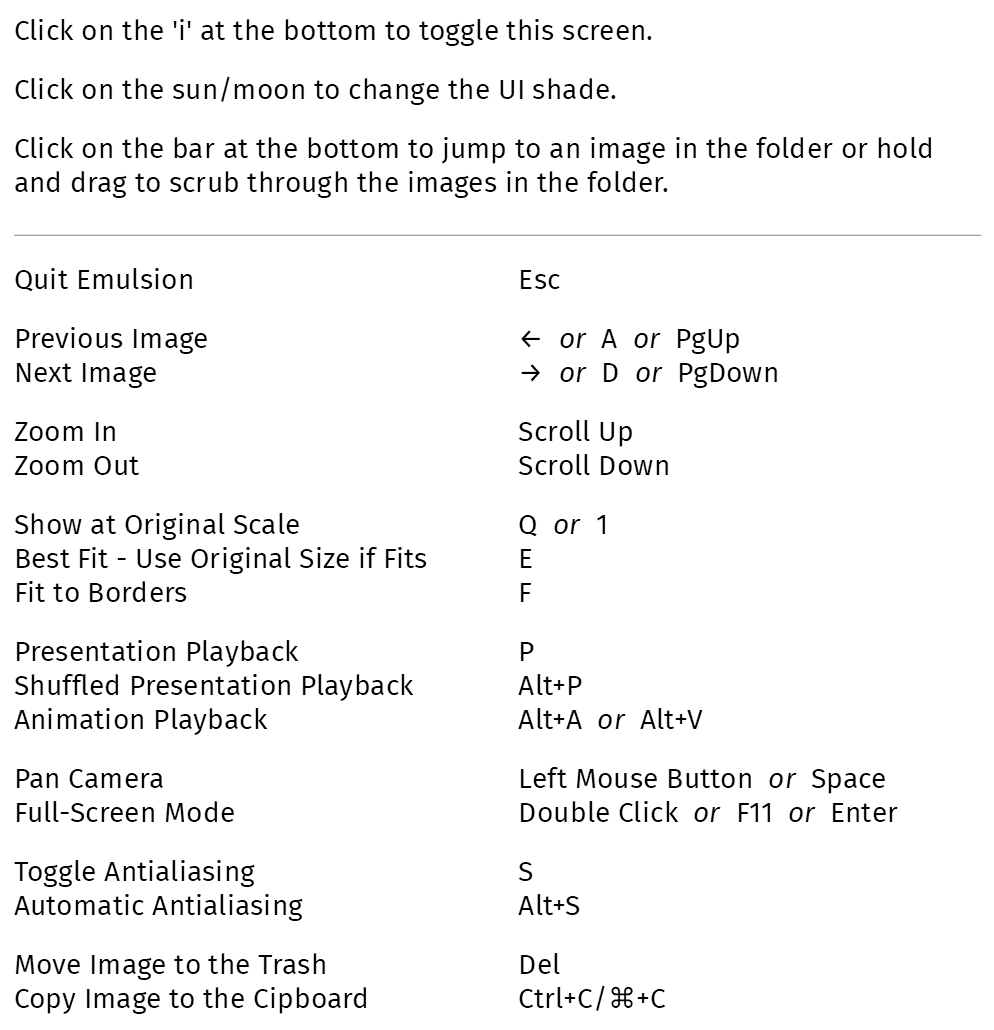
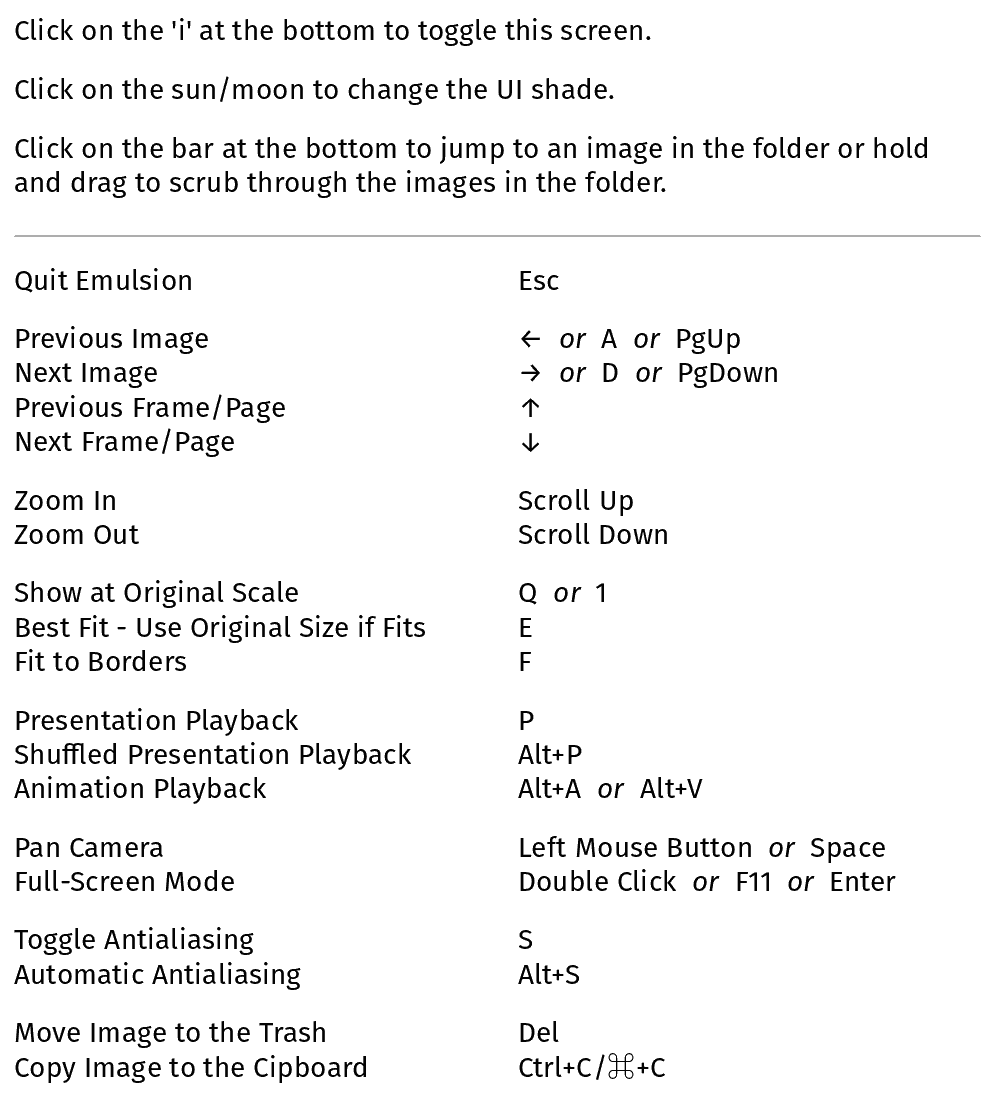
Implement turning pages with keys

diff --git a/src/playback_manager.rs b/src/playback_manager.rs
@@ -20,6 +20,8 @@ pub enum LoadRequest {
 	None,
 	LoadNext,
 	LoadPrevious,
+	LoadNextFrame,
+	LoadPreviousFrame,
 	FilePath(PathBuf),
 	LoadAtIndex(usize),
 	Jump(i32),
@@ -154,13 +156,12 @@ impl PlaybackManager {
 			_ => 4,
 		};
 
-		let result = PlaybackManager {
+		PlaybackManager {
 			//playback_state: PlaybackState::Paused,
 			image_cache: ImageCache::new(cache_capaxity, thread_count),
 			folder_player: ImgSequencePlayer::new(),
 			image_player: ImgSequencePlayer::new(),
-		};
-		result
+		}
 	}
 
 	pub fn playback_state(&self) -> PlaybackState {
@@ -209,16 +210,13 @@ impl PlaybackManager {
 	}
 
 	pub fn update_directory(&mut self) -> image_cache::Result<()> {
-		match self.folder_player.load_request {
-			LoadRequest::None => {
-				let curr_path = self.image_cache.current_file_path();
-				if !curr_path.to_string_lossy().is_empty() {
-					self.image_cache.update_directory()?;
-					let path = self.current_file_path();
-					self.request_load(LoadRequest::FilePath(path));
-				}
+		if let LoadRequest::None = self.folder_player.load_request {
+			let curr_path = self.image_cache.current_file_path();
+			if !curr_path.to_string_lossy().is_empty() {
+				self.image_cache.update_directory()?;
+				let path = self.current_file_path();
+				self.request_load(LoadRequest::FilePath(path));
 			}
-			_ => (),
 		}
 		Ok(())
 	}
@@ -342,14 +340,9 @@ impl<P: Playback> ImgSequencePlayer<P> {
 		// function early. And at the same time I want to use it's value as it is at this line.
 		let mut load_request = LoadRequest::None;
 		mem::swap(&mut self.load_request, &mut load_request);
-		let frame_delta_time_nanos;
-		match self.playback_state {
-			PlaybackState::Present | PlaybackState::RandomPresent => {
-				frame_delta_time_nanos = (NANOS_PER_SEC * 6) as i64;
-			}
-			_ => {
-				frame_delta_time_nanos = P::delay_nanos(&self) as i64;
-			}
+		let frame_delta_time_nanos = match self.playback_state {
+			PlaybackState::Present | PlaybackState::RandomPresent => (NANOS_PER_SEC * 6) as i64,
+			_ => P::delay_nanos(&self) as i64,
 		};
 		if self.playback_state == PlaybackState::Paused {
 			if let Err(e) = image_cache.process_prefetched(display) {
@@ -448,6 +441,8 @@ impl<P: Playback> ImgSequencePlayer<P> {
 				Some(P::load_path(image_cache, display, &file_path).map(|x| (x, file_path)))
 			}
 			LoadRequest::LoadAtIndex(index) => Some(P::load_at_index(image_cache, display, index)),
+			LoadRequest::LoadNextFrame => Some(image_cache.load_jump(display, 0, 1)),
+			LoadRequest::LoadPreviousFrame => Some(image_cache.load_jump(display, 0, -1)),
 			LoadRequest::Jump(jump_count) => Some(P::load_jump(image_cache, display, jump_count)),
 			LoadRequest::None => None,
 		};

diff --git a/src/image_cache/image_loader.rs b/src/image_cache/image_loader.rs
@@ -93,12 +93,8 @@ pub fn detect_format(path: &Path) -> Result<ImgFormat> {
 	let mut file_start_bytes = [0; 512];
 
 	#[cfg(feature = "archives")]
-	{
-		if let Some(ext) = path.extension() {
-			if ext == OsStr::new("cbr") || ext == OsStr::new("cbz") || ext == OsStr::new("cbt") {
-				return Ok(ImgFormat::ComicBook);
-			}
-		}
+	if is_comic_book_archive(path) {
+		return Ok(ImgFormat::ComicBook);
 	}
 
 	// Try to detect the format from the first 512 bytes
@@ -119,6 +115,17 @@ pub fn detect_format(path: &Path) -> Result<ImgFormat> {
 
 	// If that didn't work, try to detect the format from the file ending
 	Ok(ImgFormat::Image(ImageFormat::from_path(path)?))
+}
+
+pub fn is_comic_book_archive(path: &Path) -> bool {
+	if let Some(ext) = path.extension() {
+		if let Some(ext) = ext.to_str() {
+			return ext.eq_ignore_ascii_case("cbr")
+				|| ext.eq_ignore_ascii_case("cbz")
+				|| ext.eq_ignore_ascii_case("cbt");
+		}
+	}
+	false
 }
 
 pub fn detect_orientation(path: &Path) -> Result<Orientation> {
@@ -195,12 +202,7 @@ fn load_comic_book(path: PathBuf, req_id: u32) -> Result<impl Iterator<Item = Re
 		compress_tools::uncompress_archive_file(&mut file, &mut page, &page_filename)?;
 
 		let image = image::load_from_memory(&page)?.to_rgba8();
-		Ok(LoadResult::Frame {
-			req_id,
-			image,
-			delay_nano: 4_000_000_000,
-			orientation: Orientation::Deg0,
-		})
+		Ok(LoadResult::Frame { req_id, image, delay_nano: 0, orientation: Orientation::Deg0 })
 	}))
 }
 

diff --git a/src/image_cache/directory.rs b/src/image_cache/directory.rs
@@ -3,7 +3,7 @@ use std::fmt;
 use std::fs;
 use std::path::{Path, PathBuf};
 
-use super::image_loader::is_file_supported;
+use super::image_loader::{is_comic_book_archive, is_file_supported};
 use crate::parallel_action::ParallelAction;
 
 #[derive(Debug)]
@@ -46,9 +46,17 @@ macro_rules! step_to_next_img {
 pub struct DirItem {
 	pub path: PathBuf,
 
+	pub item_type: DirItemType,
+
 	/// Sometimes also abbreviated as `req_id` is used as a more efficient replacement
 	/// of a PathBuf to identify a file load request.
 	pub request_id: u32,
+}
+
+#[derive(Clone, PartialEq)]
+pub enum DirItemType {
+	ImageFile,
+	ComicBook,
 }
 
 // enum FilterState {
@@ -247,7 +255,14 @@ impl Directory {
 					Ok(file_type) => {
 						if file_type.is_file() || file_type.is_symlink() {
 							self.current_req_id += 1;
-							Some(DirItem { path: entry.path(), request_id: self.current_req_id })
+							let path = entry.path();
+							let item_type =
+								if cfg!(feature = "archives") && is_comic_book_archive(&path) {
+									DirItemType::ComicBook
+								} else {
+									DirItemType::ImageFile
+								};
+							Some(DirItem { path, item_type, request_id: self.current_req_id })
 						} else {
 							None
 						}

diff --git a/src/image_cache/mod.rs b/src/image_cache/mod.rs
@@ -18,7 +18,7 @@ mod pending_requests;
 use pending_requests::PendingRequests;
 
 mod directory;
-use directory::Directory;
+use directory::{DirItemType, Directory};
 
 pub mod errors {
 	use crate::image_cache::image_loader;
@@ -198,11 +198,13 @@ impl ImageCache {
 		self.dir.image_count()
 	}
 
-	/// Returns tru if and only if the current image has been fully loaded and it has a single frame.
+	/// Returns tru if and only if the current image has been fully loaded and it has a single frame or is a comic book archive.
 	pub fn loaded_still_image(&self) -> bool {
 		if let Some(desc) = self.dir.curr_descriptor() {
 			if let Some(img) = self.texture_cache.get(&desc.request_id) {
-				if img.fully_loaded && img.frames.len() == 1 {
+				if img.fully_loaded
+					&& (img.frames.len() == 1 || desc.item_type == DirItemType::ComicBook)
+				{
 					return true;
 				}
 			}

diff --git a/src/input_handling.rs b/src/input_handling.rs
@@ -20,6 +20,8 @@ pub static PAN_NAME: &str = "pan";
 pub static PLAY_ANIM_NAME: &str = "play_anim";
 pub static PLAY_PRESENT_NAME: &str = "play_present";
 pub static PLAY_PRESENT_RND_NAME: &str = "play_present_rnd";
+pub static NEXT_FRAME_NAME: &str = "next_frame";
+pub static PREV_FRAME_NAME: &str = "prev_frame";
 pub static TOGGLE_ANTIALIAS_NAME: &str = "toggle_antialias";
 pub static SET_AUTOMATIC_ANTIALIAS_NAME: &str = "automatic_antialias";
 pub static ZOOM_IN_NAME: &str = "zoom_in";
@@ -47,6 +49,8 @@ lazy_static! {
 		m.insert(PLAY_PRESENT_RND_NAME, vec!["Alt+P"]);
 		m.insert(TOGGLE_ANTIALIAS_NAME, vec!["S"]);
 		m.insert(SET_AUTOMATIC_ANTIALIAS_NAME, vec!["Alt+S"]);
+		m.insert(NEXT_FRAME_NAME, vec!["Down"]);
+		m.insert(PREV_FRAME_NAME, vec!["Up"]);
 		m
 	};
 }

diff --git a/src/widgets/picture_widget.rs b/src/widgets/picture_widget.rs
@@ -568,6 +568,14 @@ impl PictureWidget {
 			borrowed.playback_manager.request_load(LoadRequest::LoadNext);
 			borrowed.render_validity.invalidate();
 		}
+		if triggered!(PREV_FRAME_NAME) {
+			borrowed.playback_manager.request_load(LoadRequest::LoadPreviousFrame);
+			borrowed.render_validity.invalidate();
+		}
+		if triggered!(NEXT_FRAME_NAME) {
+			borrowed.playback_manager.request_load(LoadRequest::LoadNextFrame);
+			borrowed.render_validity.invalidate();
+		}
 		if triggered!(IMG_FIT_NAME) {
 			borrowed.set_img_size_to_fit(true);
 		}
